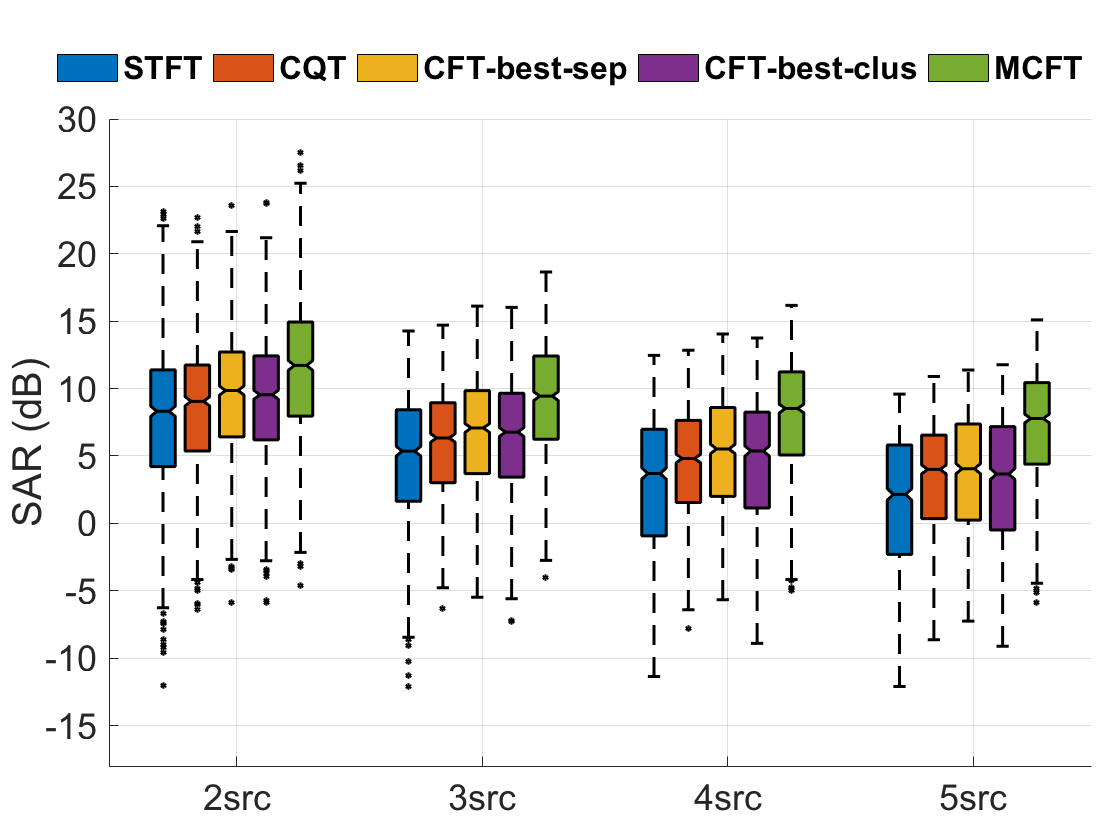
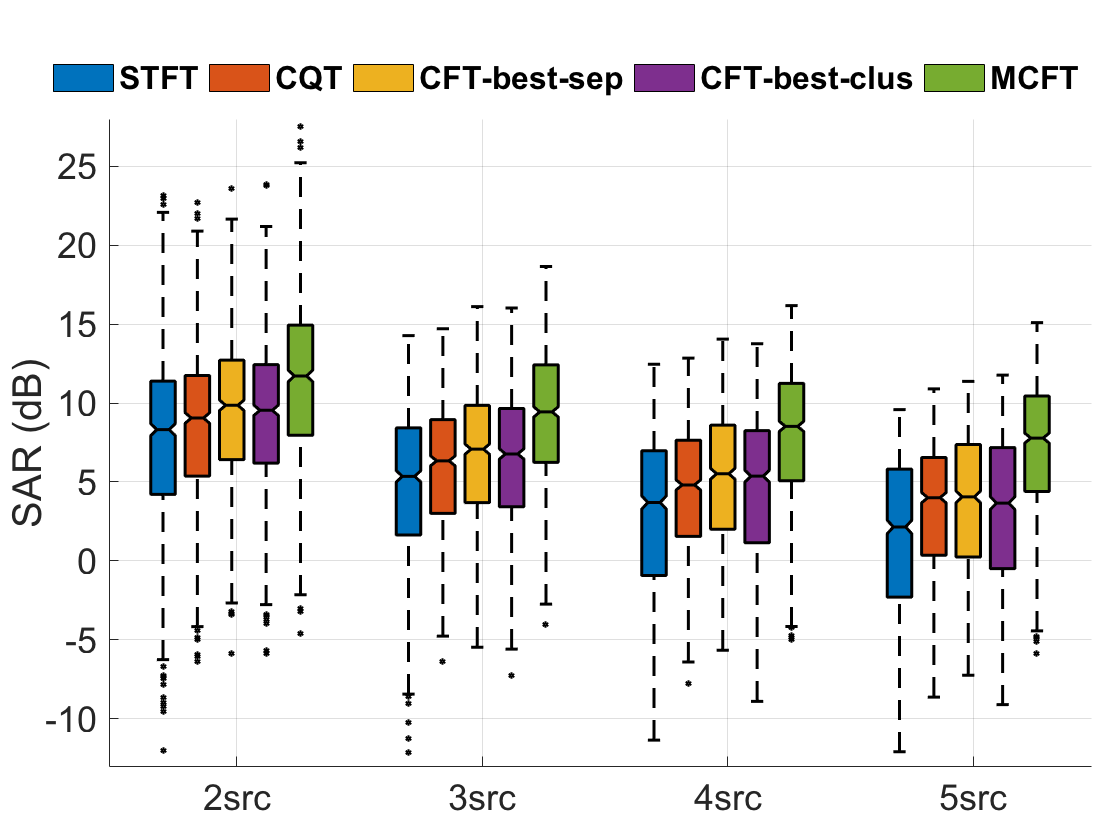
no message

diff --git a/index.html b/index.html
@@ -4844,8 +4844,11 @@
 		<div class="pad"></div>
 
 	        <p align="justify">
-			In this section, we present detailed results of our separability and clusterability experiments. Box plots show the distribution of separability and clusterability values. Tables contain the results of statistical significance tests. The null hypothesis in all statistical tests is that the median of the results for the MCFT is <i><b> less or equal </b></i> the median of other representations, in other words, the MCFT does not provide any improvement. In all tables <i>n</i> denotes the number of samples in statistical tests and <i>median diff = median(MCFT) &minus; median(other representation)"</i> (positive values mean improved performance for the MCFT). 
-	        </p>
+			In this section, we present detailed results of our separability and clusterability experiments. Box plots show the distribution of separability and clusterability values. The boxes cover the values in the range of the first and third quartiles, with the middle notch indicating the median. </p>
+
+			<p align="justify">
+			Tables contain the results of statistical significance tests. The null hypothesis in all statistical tests is that the median of the results for the MCFT is <i><b> less or equal </b></i> the median of other representations, or equivalently, the MCFT does not provide any improvement. In separability statistical tests, <i> n = number of mixtures * number of masking thresholds = 126 * 7 = 882</i>, and in clusterability statistical tests, <i> n = number of mixtures * number of masking thresholds * number of similarity kernel widths = 126 * 7 * 10 = 8820</i>. In all tables, <i>median diff = median(MCFT) &minus; median(other representation)"</i> (positive values mean improved performance for the MCFT). 
+	        </p> 
 	        <div class="pad"></div>
 
 			<h3 class="">Separability Results</h3>
@@ -4856,7 +4859,7 @@
 
 					<div class="results_table">
 						<table class="results">
-							<caption>Wilcoxon rank sum test restuls.</caption>
+							<caption>Wilcoxon rank sum test restuls (n = 882).</caption>
 			  				<tr>
 			  					<th class="results" colspan="2"> </th>
 			  					<th class="results">STFT</th>
@@ -4865,12 +4868,12 @@
 			  					<th class="results">CFT</br>best-clus</th>
 			  				</tr>
 							<tr>
-								<td class="results" rowspan="2">2src</br>n=1764</td>
+								<td class="results" rowspan="2">2src</td>
 								<td class="results"> <i>median diff (dB)</i></td>
-								<td class="results"> + 3.03</td>
-							    <td class="results"> + 2.16</td>
-								<td class="results"> + 1.35 </td>
-								<td class="results"> + 1.54 </td>
+								<td class="results"> + 3.23</td>
+							    <td class="results"> + 2.37</td>
+								<td class="results"> + 1.39 </td>
+								<td class="results"> + 1.58 </td>
 							</tr>
 							<tr>
 								<td class="results"> <i>p-value</i></td>
@@ -4880,12 +4883,12 @@
 								<td class="results"> &le; 0.0001 </td>
 							</tr>
 							<tr>
-								<td class="results" rowspan="2">3src</br>n=2646</td>
+								<td class="results" rowspan="2">3src</td>
 								<td class="results"> <i>median diff (dB)</i></td>
-								<td class="results"> + 3.54</td>
-							    <td class="results"> + 2.67 </td>
-								<td class="results"> + 1.84 </td>
-								<td class="results"> + 2.17 </td>
+								<td class="results"> + 3.75</td>
+							    <td class="results"> + 2.76 </td>
+								<td class="results"> + 1.80 </td>
+								<td class="results"> + 2.94 </td>
 							</tr>
 							<tr>
 								<td class="results"> <i>p-value</i></td>
@@ -4895,12 +4898,12 @@
 								<td class="results"> &le; 0.0001 </td>
 							</tr>
 							<tr>
-								<td class="results" rowspan="2">4src</br>n=3528</td>
+								<td class="results" rowspan="2">4src</td>
 								<td class="results"> <i>median diff (dB) </i></td>
-								<td class="results"> + 4.26</td>
-							    <td class="results"> + 3.07</td>
-								<td class="results"> + 2.12 </td>
-								<td class="results"> + 2.45 </td>
+								<td class="results"> + 4.39</td>
+							    <td class="results"> + 2.96</td>
+								<td class="results"> + 1.95 </td>
+								<td class="results"> + 2.14 </td>
 							</tr>
 							<tr>
 								<td class="results"> <i>p-value</i></td>
@@ -4910,12 +4913,12 @@
 								<td class="results"> &le; 0.0001 </td>
 							</tr>
 							<tr>
-								<td class="results" rowspan="2">5src</br>n=4410</td>
+								<td class="results" rowspan="2">5src</td>
 								<td class="results"> <i>median diff (dB) </i></td>
-								<td class="results"> + 4.89 </td>
-							    <td class="results"> + 3.39 </td>
-								<td class="results"> + 2.85 </td>
-								<td class="results"> + 3.22 </td>
+								<td class="results"> + 4.96 </td>
+							    <td class="results"> + 3.35 </td>
+								<td class="results"> + 2.37 </td>
+								<td class="results"> + 2.68 </td>
 							</tr>
 							<tr>
 								<td class="results"> <i>p-value</i></td>
@@ -4928,7 +4931,7 @@
 					</div>
 
 					<div class="results_plot">
-						<img  src="demos/experimental_results/sdr_box.png" height="360" width="480">
+						<img  src="demos/experimental_results/sdr_mean_mix_box.png" height="360" width="480">
 					</div>
 
 				</div></br>
@@ -4940,7 +4943,7 @@
 
 					<div class="results_table">
 						<table class="results">
-							<caption>Wilcoxon rank sum test restuls.</caption>
+							<caption>Wilcoxon rank sum test restuls (n = 882).</caption>
 			  				<tr>
 			  					<th class="results" colspan="2"> </th>
 			  					<th class="results">STFT</th>
@@ -4949,12 +4952,12 @@
 			  					<th class="results">CFT</br>best-clus</th>
 			  				</tr>
 							<tr>
-								<td class="results" rowspan="2" >2src</br>n=1764</td>
+								<td class="results" rowspan="2" >2src</td>
 								<td class="results"> <i>median diff (dB)</i></td>
-								<td class="results"> + 0.41</td>
-							    <td class="results"> + 0.09</td>
-								<td class="results"> &minus; 0.44 </td>
-								<td class="results"> &minus; 0.29 </td>
+								<td class="results"> + 0.63</td>
+							    <td class="results"> + 0.37</td>
+								<td class="results"> &minus; 0.22 </td>
+								<td class="results"> &minus; 0.09 </td>
 							</tr>
 							<tr>
 								<td class="results"> <i>p-value</i></td>
@@ -4964,12 +4967,12 @@
 								<td class="results"> > 0.05 </td>
 							</tr>
 							<tr>
-								<td class="results" rowspan="2">3src</br>n=2646</td>
+								<td class="results" rowspan="2">3src</td>
 								<td class="results"> <i>median diff (dB)</i></td>
-								<td class="results"> + 1.87</td>
-							    <td class="results"> + 0.99 </td>
-								<td class="results"> + 0.66 </td>
-								<td class="results"> + 0.89</td>
+								<td class="results"> + 1.57</td>
+							    <td class="results"> + 1.20 </td>
+								<td class="results"> + 0.50 </td>
+								<td class="results"> + 0.70</td>
 							</tr>
 							<tr>
 								<td class="results"> <i>p-value</i></td>
@@ -4979,12 +4982,12 @@
 								<td class="results"> &le; 0.0001 </td>
 							</tr>
 							<tr>
-								<td class="results" rowspan="2">4src</br>n=3528</td>
+								<td class="results" rowspan="2">4src</td>
 								<td class="results"> <i>median diff (dB) </i></td>
-								<td class="results"> + 2.46</td>
-							    <td class="results"> + 1.40</td>
-								<td class="results"> + 1.08</td>
-								<td class="results"> + 1.22</td>
+								<td class="results"> + 2.41</td>
+							    <td class="results"> + 1.54</td>
+								<td class="results"> + 0.85</td>
+								<td class="results"> + 0.94</td>
 							</tr>
 							<tr>
 								<td class="results"> <i>p-value</i></td>
@@ -4994,12 +4997,12 @@
 								<td class="results"> &le; 0.0001 </td>
 							</tr>
 							<tr>
-								<td class="results" rowspan="2">5src</br>n=4410</td>
+								<td class="results" rowspan="2">5src</td>
 								<td class="results"> <i>median diff (dB) </i></td>
-								<td class="results"> + 2.96 </td>
-							    <td class="results"> + 1.81 </td>
-								<td class="results"> + 1.52 </td>
-								<td class="results"> + 1.83 </td>
+								<td class="results"> + 2.97 </td>
+							    <td class="results"> + 2.02 </td>
+								<td class="results"> + 1.43 </td>
+								<td class="results"> + 1.60 </td>
 							</tr>
 							<tr>
 								<td class="results"> <i>p-value</i></td>
@@ -5012,7 +5015,7 @@
 					</div>
 
 					<div class="results_plot">
-						<img  src="demos/experimental_results/sir_box.png" height="360" width="480">
+						<img  src="demos/experimental_results/sir_mean_mix_box.png" height="360" width="480">
 					</div>
 
 				</div></br>
@@ -5023,7 +5026,7 @@
 
 					<div class="results_table">
 						<table class="results">
-							<caption>Wilcoxon rank sum test restuls.</caption>
+							<caption>Wilcoxon rank sum test restuls (n = 882).</caption>
 			  				<tr>
 			  					<th class="results" colspan="2"> </th>
 			  					<th class="results">STFT</th>
@@ -5032,12 +5035,12 @@
 			  					<th class="results">CFT</br>best-clus</th>
 			  				</tr>
 							<tr>
-								<td class="results" rowspan="2" >2src</br>n=1764</td>
+								<td class="results" rowspan="2" >2src</td>
 								<td class="results"> <i>median diff (dB)</i></td>
-								<td class="results"> + 3.35</td>
-							    <td class="results"> + 2.48</td>
-								<td class="results"> + 1.71 </td>
-								<td class="results"> + 1.87 </td>
+								<td class="results"> + 3.77</td>
+							    <td class="results"> + 2.84</td>
+								<td class="results"> + 1.82 </td>
+								<td class="results"> + 2.07 </td>
 							</tr>
 							<tr>
 								<td class="results"> <i>p-value</i></td>
@@ -5047,12 +5050,12 @@
 								<td class="results"> &le; 0.0001 </td>
 							</tr>
 							<tr>
-								<td class="results" rowspan="2">3src</br>n=2646</td>
+								<td class="results" rowspan="2">3src</td>
 								<td class="results"> <i>median diff (dB)</i></td>
-								<td class="results"> + 3.86</td>
-							    <td class="results"> + 2.93</td>
-								<td class="results"> + 2.11</td>
-								<td class="results"> + 2.38</td>
+								<td class="results"> + 4.12</td>
+							    <td class="results"> + 3.17</td>
+								<td class="results"> + 2.31</td>
+								<td class="results"> + 2.47</td>
 							</tr>
 							<tr>
 								<td class="results"> <i>p-value</i></td>
@@ -5062,12 +5065,12 @@
 								<td class="results"> &le; 0.0001 </td>
 							</tr>
 							<tr>
-								<td class="results" rowspan="2">4src</br>n=3528</td>
+								<td class="results" rowspan="2">4src</td>
 								<td class="results"> <i>median diff (dB) </i></td>
-								<td class="results"> + 4.46</td>
-							    <td class="results"> + 3.28</td>
-								<td class="results"> + 2.34</td>
-								<td class="results"> + 2.67</td>
+								<td class="results"> + 4.67</td>
+							    <td class="results"> + 3.36</td>
+								<td class="results"> + 2.41</td>
+								<td class="results"> + 2.66</td>
 							</tr>
 							<tr>
 								<td class="results"> <i>p-value</i></td>
@@ -5077,12 +5080,12 @@
 								<td class="results"> &le; 0.0001 </td>
 							</tr>
 							<tr>
-								<td class="results" rowspan="2">5src</br>n=4410</td>
+								<td class="results" rowspan="2">5src</td>
 								<td class="results"> <i>median diff (dB) </i></td>
-								<td class="results"> + 5.07 </td>
-							    <td class="results"> + 3.62 </td>
-								<td class="results"> + 3.13 </td>
-								<td class="results"> + 3.37 </td>
+								<td class="results"> + 5.06 </td>
+							    <td class="results"> + 3.69 </td>
+								<td class="results"> + 2.75 </td>
+								<td class="results"> + 3.14 </td>
 							</tr>
 							<tr>
 								<td class="results"> <i>p-value</i></td>
@@ -5095,7 +5098,7 @@
 					</div>
 
 					<div class="results_plot">
-						<img  src="demos/experimental_results/sar_box.png" height="360" width="480">
+						<img  src="demos/experimental_results/sar_mean_mix_box.png" height="360" width="480">
 					</div>
 
 				</div></br>
@@ -5110,7 +5113,7 @@
 
 					<div class="results_table">
 						<table class="results">
-							<caption>Wilcoxon rank sum test restuls.</caption>
+							<caption>Wilcoxon rank sum test restuls (n = 8820).</caption>
 			  				<tr>
 			  					<th class="results" colspan="2"> </th>
 			  					<th class="results">STFT</th>
@@ -5119,7 +5122,7 @@
 			  					<th class="results">CFT</br>best-clus</th>
 			  				</tr>
 							<tr>
-								<td class="results" rowspan="2" >2src</br>n=8820</td>
+								<td class="results" rowspan="2" >2src</td>
 								<td class="results"> <i>median diff</i></td>
 								<td class="results"> + 0.088</td>
 							    <td class="results"> + 0.100</td>
@@ -5134,7 +5137,7 @@
 								<td class="results"> > 0.05 </td>
 							</tr>
 							<tr>
-								<td class="results" rowspan="2">3src</br>n=8820</td>
+								<td class="results" rowspan="2">3src</td>
 								<td class="results"> <i>median diff</i></td>
 								<td class="results"> + 0.041</td>
 							    <td class="results"> + 0.040 </td>
@@ -5149,7 +5152,7 @@
 								<td class="results"> > 0.05 </td>
 							</tr>
 							<tr>
-								<td class="results" rowspan="2">4src</br>n=8820</td>
+								<td class="results" rowspan="2">4src</td>
 								<td class="results"> <i>median diff</i></td>
 								<td class="results"> + 0.012</td>
 							    <td class="results"> + 0.008</td>
@@ -5161,10 +5164,10 @@
 								<td class="results"> > 0.05</td>
 							    <td class="results"> &le; 0.05 </td>
 								<td class="results"> &le; 0.0001 </td>
-								<td class="results"> >0.05 </td>
+								<td class="results"> > 0.05 </td>
 							</tr>
 							<tr>
-								<td class="results" rowspan="2">5src</br>n=8820</td>
+								<td class="results" rowspan="2">5src</td>
 								<td class="results"> <i>median diff</i></td>
 								<td class="results"> &minus; 0.009 </td>
 							    <td class="results"> &minus; 0.017 </td>
@@ -5176,7 +5179,7 @@
 								<td class="results"> > 0.05</td>
 							    <td class="results"> > 0.05 </td>
 								<td class="results"> &le; 0.0001 </td>
-								<td class="results"> >0.05 </td>
+								<td class="results"> > 0.05 </td>
 							</tr>
 						</table>
 					</div>
